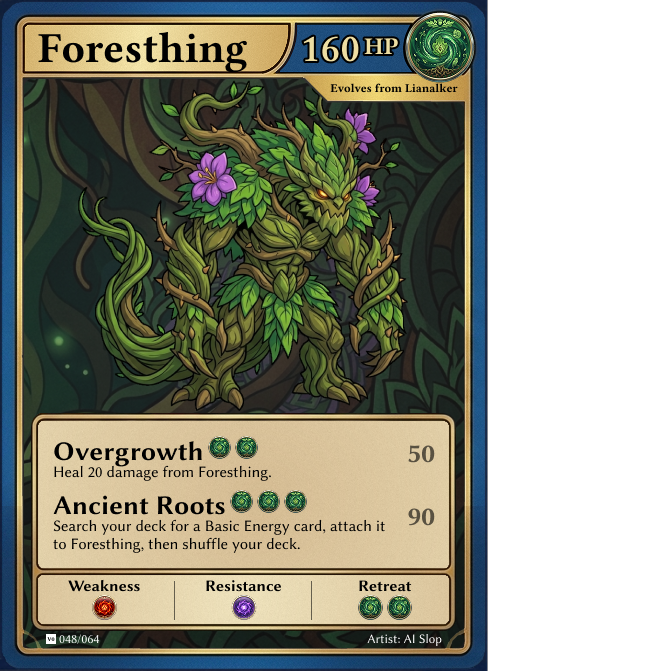
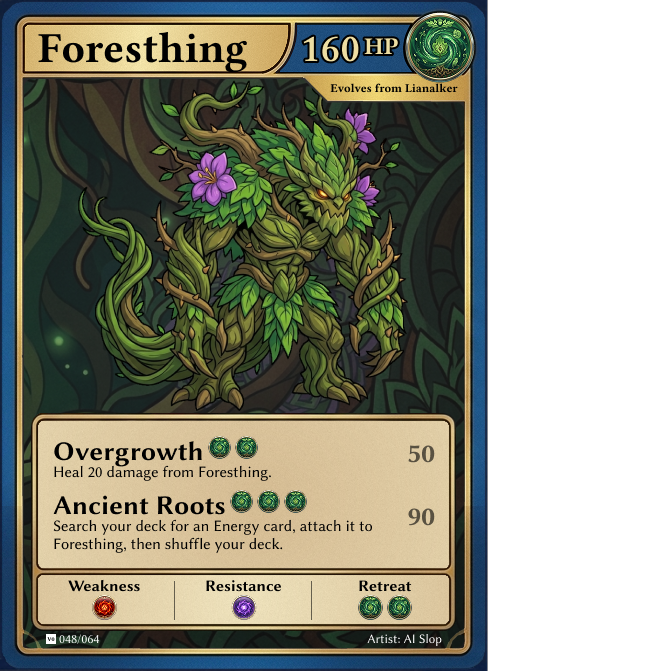
Basic Energy -> Energy

Changed region(s): [[0.0894, 0.775, 0.5663, 0.8346]]

diff --git a/game-cards.md b/game-cards.md
@@ -159,7 +159,7 @@ Attack costs are a number of Energy **of the Beast's own type** (this set has no
 |---|---|---|---|---|---|---|
 | 046 | Vineling | Basic | — | 65 | 1 | **Vine Flick** (1, 20 dmg)<br>**Leech** (2, 20 dmg) — Heal 10 damage from Vineling. |
 | 047 | Lianalker | Stage 1 | Vineling | 110 | 1 | **Root Snare** (1, 30 dmg) — During your opponent's next turn, the Defending Beast's Retreat Cost is 2 more.<br>**Bramble Slash** (2, 50 dmg) |
-| 048 | Foresthing | Stage 2 | Lianalker | 160 | 2 | **Overgrowth** (2, 50 dmg) — Heal 20 damage from Foresthing.<br>**Ancient Roots** (3, 90 dmg) — Search your deck for a Basic Energy card, attach it to Foresthing, then shuffle your deck. |
+| 048 | Foresthing | Stage 2 | Lianalker | 160 | 2 | **Overgrowth** (2, 50 dmg) — Heal 20 damage from Foresthing.<br>**Ancient Roots** (3, 90 dmg) — Search your deck for a Energy card, attach it to Foresthing, then shuffle your deck. |
 
 ---
 
@@ -183,7 +183,7 @@ Attack costs are a number of Energy **of the Beast's own type** (this set has no
 | 057 | Runic Sword | `design/items/sword.png` | Rare (Equip) | Attach to 1 of your Beasts. That Beast's attacks do 30 more damage. Discard this card if that Beast is Knocked Out. |
 | 058 | Tome of Fate | `design/items/tome.png` | Rare | Look at the top 3 cards of your deck. Put 1 into your hand and the rest on the bottom of your deck in any order. |
 
-## Basic Energy *(all Common)*
+## Energy *(all Common)*
 
 | # | Name | Art |
 |---|---|---|
@@ -194,4 +194,4 @@ Attack costs are a number of Energy **of the Beast's own type** (this set has no
 | 063 | Water Energy | `design/water.png` |
 | 064 | Nature Energy | `design/nature.png` |
 
-Each Basic Energy card's only rule text is "Attach to 1 of your Beasts. Provides 1 [Type] Energy."
+Each Energy card's only rule text is "Attach to 1 of your Beasts. Provides 1 [Type] Energy."

diff --git a/game-rules.md b/game-rules.md
@@ -9,7 +9,7 @@ Every card is one of four supertypes:
 - **Beast** — a monster you battle with. Has a Stage (1, 2, or 3), an HP total, a Type, up to 2 attacks, a Weakness, a Resistance, and a Retreat Cost.
 - **Supporter** — a named character card with a one-time effect. Playing one uses your turn's single Supporter play (see §5).
 - **Item** — an equipment or consumable card with a one-time or persistent effect. Unlike Supporters, you may play any number of Items per turn.
-- **Energy** — a Basic Energy card provides 1 Energy of its printed type when attached to a Beast. There is one Basic Energy per type (Electric, Fighting, Fire, Psychic, Water, Nature).
+- **Energy** — a Energy card provides 1 Energy of its printed type when attached to a Beast. There is one Energy per type (Electric, Fighting, Fire, Psychic, Water, Nature).
 
 ## 2. The 6 types & the type chart
 
@@ -48,7 +48,7 @@ Attack costs are paid only in the attacking Beast's own type — there is no col
 ## 3. Deck construction
 
 - A deck has exactly **60 cards**.
-- No more than **4 copies** of any single named card, except Basic Energy (unlimited copies).
+- No more than **4 copies** of any single named card, except Energy (unlimited copies).
 - A legal deck must contain at least one Stage-1 Beast (you need one to start the game).
 
 ## 4. Setup
@@ -124,4 +124,4 @@ The existing booster (`ce_expansion_beastbound_first_booster.lua`) defines an 11
 | **Common** | All 17 Stage-1 Beasts, all 3 Supporters, 2 Items (Minor Potion, Noxious Draught) |
 | **Uncommon** | All 14 Stage-2 (mid-evolution) Beasts, 3 Items (Tactic Scroll, Boots of Flight, Lion Gauntlets) |
 | **Rare** | All 17 final-evolution Beasts, 2 Items (Runic Sword, Tome of Fate) |
-| **Energy** (own slot type, always Common) | All 6 Basic Energy |
+| **Energy** (own slot type, always Common) | All 6 Energy |
